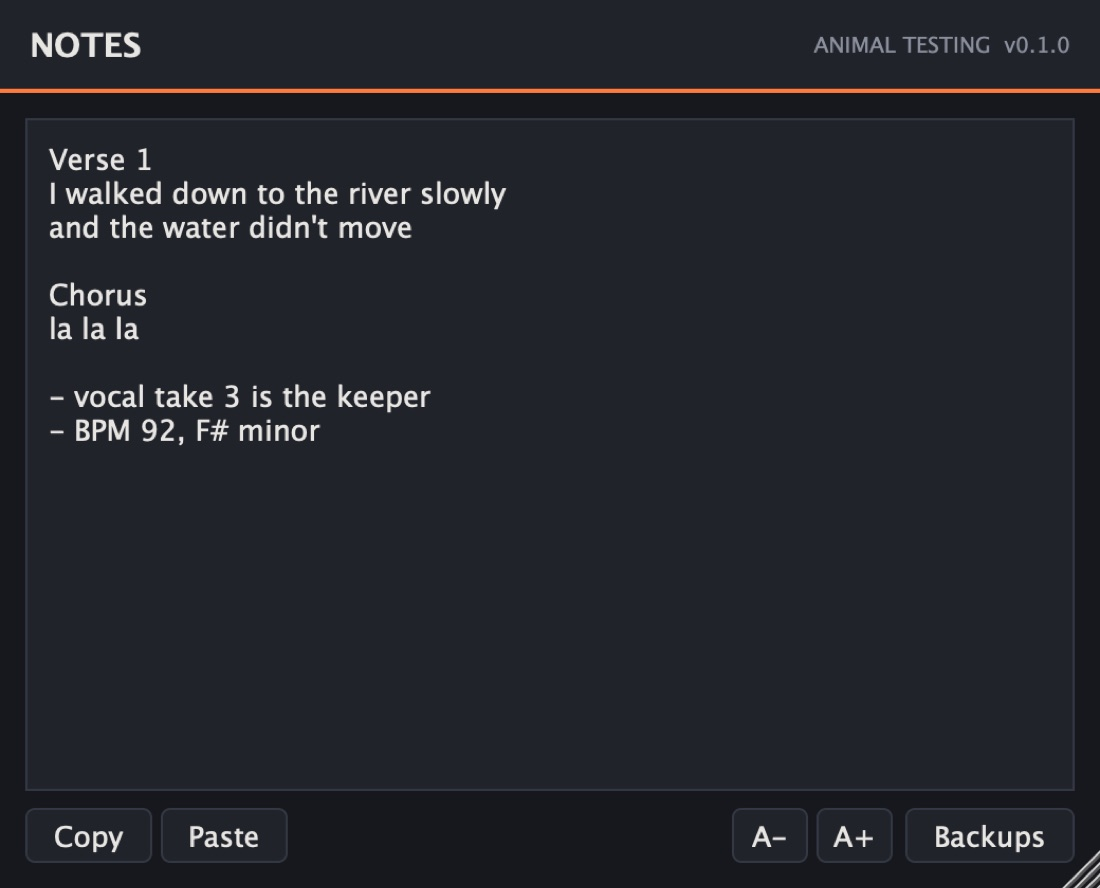
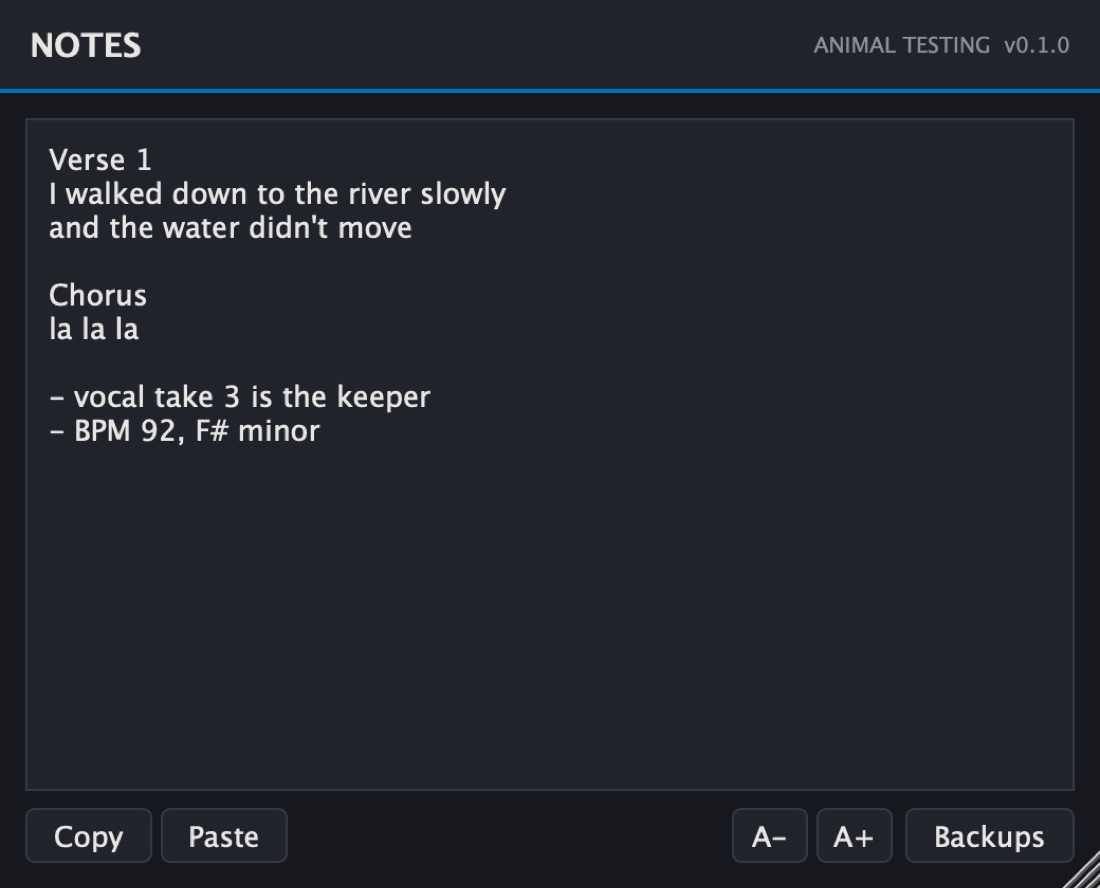
Notes: header line and text accents in the website blue

Changed region(s): [[0.0, 0.0912, 1.0, 0.1216]]

diff --git a/plugins/Notes/Source/PluginEditor.cpp b/plugins/Notes/Source/PluginEditor.cpp
@@ -20,10 +20,10 @@ PluginEditor::PluginEditor (PluginProcessor& p)
     page.setIndents (10, 10);
     page.setColour (juce::TextEditor::backgroundColourId, Palette::panel);
     page.setColour (juce::TextEditor::textColourId, Palette::text);
-    page.setColour (juce::TextEditor::highlightColourId, Palette::accent.withAlpha (0.35f));
-    page.setColour (juce::CaretComponent::caretColourId, Palette::accent);
+    page.setColour (juce::TextEditor::highlightColourId, Palette::brandBlue.withAlpha (0.35f));
+    page.setColour (juce::CaretComponent::caretColourId, Palette::brandBlue);
     page.setColour (juce::TextEditor::outlineColourId, Palette::track);
-    page.setColour (juce::TextEditor::focusedOutlineColourId, Palette::accent);
+    page.setColour (juce::TextEditor::focusedOutlineColourId, Palette::brandBlue);
     page.setTextToShowWhenEmpty ("Lyrics, notes, anything. Saved with the set.", Palette::textDim);
     page.setFont (juce::FontOptions (notes.fontSize.load()));
     page.setText (notes.getText(), false);
@@ -90,7 +90,8 @@ void PluginEditor::setFontSize (float size)
 
 void PluginEditor::paint (juce::Graphics& g)
 {
-    at::LookAndFeel::drawEditorChrome (g, getLocalBounds(), "Notes", JucePlugin_VersionString);
+    at::LookAndFeel::drawEditorChrome (g, getLocalBounds(), "Notes", JucePlugin_VersionString,
+                                       at::LookAndFeel::Palette::brandBlue);
 }
 
 void PluginEditor::resized()

diff --git a/shared/at_shared/gui/at_LookAndFeel.h b/shared/at_shared/gui/at_LookAndFeel.h
@@ -15,6 +15,7 @@ namespace at
             static inline const juce::Colour accent     { 0xffff7a3d };
             static inline const juce::Colour text       { 0xffe8e6e3 };
             static inline const juce::Colour textDim    { 0xff8a8f9c };
+            static inline const juce::Colour brandBlue  { 0xff0072bc };  // the website's road-sign blue
         };
 
         LookAndFeel();
@@ -29,9 +30,11 @@ namespace at
 
         juce::Font getLabelFont (juce::Label&) override;
 
-        /** Fills the editor background and draws the plugin title + version header. Returns the area below it. */
+        /** Fills the editor background and draws the plugin title + version header, underlined in
+            the given colour. Returns the area below it. */
         static juce::Rectangle<int> drawEditorChrome (juce::Graphics&, juce::Rectangle<int> bounds,
-                                                     const juce::String& title, const juce::String& version);
+                                                     const juce::String& title, const juce::String& version,
+                                                     juce::Colour underline = Palette::accent);
 
         static constexpr int headerHeight = 44;
     };

diff --git a/shared/at_shared/gui/at_LookAndFeel.cpp b/shared/at_shared/gui/at_LookAndFeel.cpp
@@ -92,14 +92,15 @@ namespace at
     }
 
     juce::Rectangle<int> LookAndFeel::drawEditorChrome (juce::Graphics& g, juce::Rectangle<int> bounds,
-                                                       const juce::String& title, const juce::String& version)
+                                                       const juce::String& title, const juce::String& version,
+                                                       juce::Colour underline)
     {
         g.fillAll (Palette::background);
 
         auto header = bounds.removeFromTop (headerHeight);
         g.setColour (Palette::panel);
         g.fillRect (header);
-        g.setColour (Palette::accent);
+        g.setColour (underline);
         g.fillRect (header.removeFromBottom (2));
 
         header = header.reduced (14, 0);
